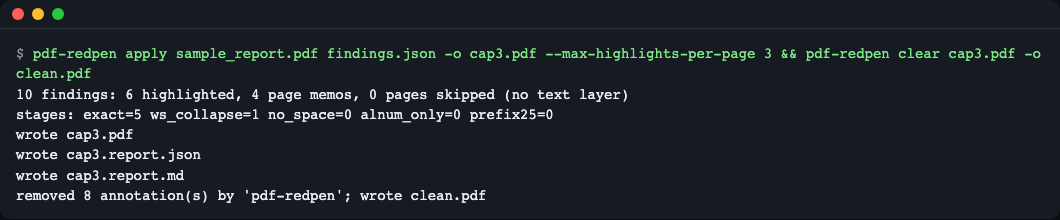
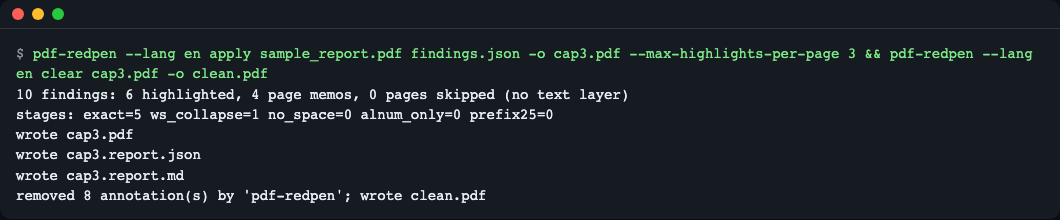
docs(readme): document screen language with per-language screenshots
Add a screen language section, language-specific screenshots, and
troubleshooting and limits notes for the new option.

Changed region(s): [[0.0934, 0.2182, 0.9962, 0.3], [0.0, 0.3, 0.2491, 0.3545]]

diff --git a/README.ko.md b/README.ko.md
@@ -34,21 +34,21 @@ uv tool install git+https://github.com/LeeGyeongPil/pdf-redpen
 pdf-redpen demo --out out
 ```
 
-![터미널 출력: 9 findings: 8 highlighted, 1 page memo, 1 page skipped](docs/images/02-demo-run.png)
-*`demo` 실행 화면. 3쪽은 글자 층이 없는 쪽이라 모델을 부르지 않고 건너뜁니다.*
+![터미널 출력(한국어 화면): 지적 9건: 강조 8개, 페이지 메모 1개, 1쪽 건너뜀](docs/images/02-demo-run.ko.png)
+*`demo` 실행 화면(한국어 화면. 언어를 분명히 하려고 스크린샷에는 `--lang ko`를 붙였습니다). 3쪽은 글자 층이 없는 쪽이라 모델을 부르지 않고 건너뜁니다.*
 
-> **연습용 목(mock) 모드입니다.** 모델 응답을 저장소에 들어 있는 녹화 파일(`src/pdf_redpen/data/recorded/`, **사람이 손으로 쓴 것이며 특정 모델의 실제 출력이 아닙니다**)로 대신합니다. 응답을 받은 뒤의 일(표 파싱·보강 병합·위치 찾기·주석 쓰기)은 실제 모드와 **같은 코드**입니다. 실제 모델은 더 많거나 적게, 다르게 지적합니다. 실제 모드는 모델 호출 때문에 훨씬 느릴 수 있습니다.
+> **연습용 목(mock) 모드입니다.** 모델 응답을 저장소에 들어 있는 녹음 파일(`src/pdf_redpen/data/recorded/`, **사람이 손으로 쓴 것이며 특정 모델의 실제 출력이 아닙니다**)로 대신합니다. 응답을 받은 뒤의 일(표 파싱·보강 병합·위치 찾기·주석 쓰기)은 실제 모드와 **같은 코드**입니다. 실제 모델은 더 많거나 적게, 다르게 지적합니다. 실제 모드는 모델 호출 때문에 훨씬 느릴 수 있습니다.
 
 읽는 법:
 
 | 출력 | 뜻 |
 |---|---|
-| `9 findings` | 모델(녹화)이 낸 지적 9건 |
-| `8 highlighted` | 8건은 PDF에서 위치를 찾아 형광펜을 그림 |
-| `1 page memo` | 1건은 본문에서 못 찾아 그 쪽 모서리 메모에 적음 |
-| `1 page skipped` | 글자 층이 없는 쪽(스캔·빈 쪽)은 건너뜀 |
-| `stages: exact=4 ...` | 지적을 어느 단계의 일치 방식으로 찾았는지의 집계 |
-| `recall pass: first 8, added 1, ...` | 1차 8건, "놓친 것만" 다시 물어 1건 추가, 중복 1건 제거 |
+| `지적 9건` | 모델(녹음)이 낸 지적 9건 |
+| `강조 8개` | 8건은 PDF에서 위치를 찾아 형광펜을 그림 |
+| `페이지 메모 1개` | 1건은 본문에서 못 찾아 그 쪽 모서리 메모에 적음 |
+| `1쪽 건너뜀(텍스트 층 없음)` | 글자 층이 없는 쪽(스캔·빈 쪽)은 건너뜀 |
+| `단계: exact=4 ...` | 지적을 어느 단계의 일치 방식으로 찾았는지의 집계 |
+| `재확인 패스: 첫 번째 8, 추가 1, ...` | 1차 8건, "놓친 것만" 다시 물어 1건 추가, 중복 1건 제거 |
 
 `out/reviewed.pdf`를 아무 PDF 뷰어로 열어 보세요. 찾은 지적은 형광펜(`/Highlight`)이 되고 설명은 형광펜의 메모(`/Contents`)에 들어 있어, 형광펜을 클릭하거나 올리면 보입니다. 못 찾은 지적은 쪽 모서리의 메모 아이콘 하나에 `[위치 못 찾음]`으로 모입니다.
 
@@ -56,16 +56,33 @@ pdf-redpen demo --out out
 
 | 명령 | 하는 일 | 예 |
 |---|---|---|
-| `demo` | 번들 샘플 3쪽을 녹화 응답으로 검토 | `pdf-redpen demo --out out` |
+| `demo` | 번들 샘플 3쪽을 녹음 응답으로 검토 | `pdf-redpen demo --out out` |
 | `review` | PDF를 모델로 검토해 주석 PDF·리포트 생성 | `pdf-redpen review a.pdf --recall-pass -o a.reviewed.pdf` |
 | `apply` | 모델 없이, 지적 JSON을 PDF에 달기 | `pdf-redpen apply a.pdf findings.json -o a.marked.pdf` |
 | `clear` | 이 도구가 단 주석만 제거 | `pdf-redpen clear a.marked.pdf -o a.clean.pdf` |
 
-`review` 옵션: `--instructions FILE`(검토 지침), `--mock DIR`(녹화 재생), `--record DIR`(응답 저장), `--recall-pass`(놓친 것 재질의), `--max-highlights-per-page N`(기본 20), `--pages 1-3,5`, `--author`, `--lang ko|en`(프롬프트 언어).
+`review` 옵션: `--instructions FILE`(검토 지침), `--mock DIR`(녹음 재생), `--record DIR`(응답 저장), `--recall-pass`(놓친 것 재질의), `--max-highlights-per-page N`(기본 20), `--pages 1-3,5`, `--author`, `--lang ko|en`(모델에 보내는 **프롬프트** 언어, 기본 `ko`. 화면 언어가 아닙니다. 아래 참고).
 종료 코드:
-- `0` 정상. 지적을 못 찾았어도 0이고(리포트로 알림), 일부 쪽만 실패하면 `warning: N page(s) failed ...`를 stderr에 내고 0입니다.
-- `1` 모델에 보낸 쪽이 **전부** 실패(`error: every page failed; ...`)했거나 예기치 못한 오류.
-- `2` 입력 오류(없는 파일, 잘못된 JSON, 범위 밖 `page`, 알 수 없는 `severity`, 모델 미설정 등).
+- `0` 정상. 지적을 못 찾았어도 0이고(리포트로 알림), 일부 쪽만 실패하면 `경고: N개 쪽이 실패했습니다. ...`(영어 화면에서는 `warning: N page(s) failed ...`)를 stderr에 내고 0입니다.
+- `1` 모델에 보낸 쪽이 **전부** 실패(`오류: 모든 쪽이 실패했습니다. ...`, 영어 화면에서는 `error: every page failed; ...`)했거나 예기치 못한 오류.
+- `2` 입력 오류(없는 파일, 잘못된 JSON, 범위 밖 `page`, 알 수 없는 `severity`, 모델 미설정 등) 또는 읽거나 쓸 수 없는 파일(`오류: <경로> 에 접근할 수 없습니다: ...`, 예: 읽기 전용 출력 폴더).
+
+### 화면 언어 (영어 / 한국어)
+터미널에 나오는 모든 것(도움말, 진행·요약 줄, 오류 메시지)과 Markdown 리포트를 영어 또는 한국어로 볼 수 있습니다. PDF 안에 쓰는 메모도 같은 언어를 따릅니다. 먼저 정해진 것이 이깁니다.
+
+| 우선순위 | 방법 | 예 |
+|---|---|---|
+| 1 | 전역 옵션, 명령 **앞**에 둠 | `pdf-redpen --lang ko demo --out out` |
+| 2 | 환경변수 | `PDF_REDPEN_LANG=ko pdf-redpen demo --out out` |
+| 3 | 로캘: `LC_ALL` → `LC_MESSAGES` → `LANG`(값이 `ko`로 시작하면 한국어) | `LANG=ko_KR.UTF-8 pdf-redpen demo --out out` |
+| 4 | 아무것도 없거나 그 밖의 값 | 영어 |
+
+![한국어 도움말 화면: 사용법, 명령 네 가지, --lang 옵션](docs/images/09-lang-help.ko.png)
+*`pdf-redpen --lang ko --help`(한국어 화면). `--lang en`이면 같은 화면이 영어로 나옵니다. argparse가 붙이는 제목(`usage:`, `positional arguments:`, `options:`)과 `-h`·`--version`의 설명 줄은 영어 그대로입니다.*
+
+- **명령 앞의 `--lang`은 화면 언어이고, `review` 뒤의 `review --lang ko|en`은 모델에 보내는 프롬프트 언어**입니다(기본값 `ko` 그대로). 서로 별개라서 `pdf-redpen --lang ko review a.pdf --lang en`은 화면은 한국어, 모델에는 영어로 묻습니다.
+- PDF 안의 메모는 한국어에서 `[위치 못 찾음]`, `[상한 초과]`, `(느슨 일치)`, 영어에서 `[not found]`, `[over cap]`, `(loose match)`입니다. 0.2.0 이전 버전은 항상 한국어 태그를 썼습니다.
+- `report.json`은 기계용이라 언어와 상관없이 항상 영어입니다. 상태·단계 코드(`highlighted`, `exact` 등)도 두 언어가 같습니다.
 
 ### 시나리오 1. 내 문서를 로컬 모델로 검토
 ```bash
@@ -74,20 +91,20 @@ export PDF_REDPEN_MODEL=<받아 둔 모델 이름>
 pdf-redpen review report.pdf --instructions review.md --recall-pass --record rec -o report.reviewed.pdf
 ```
 - 쪽마다 글자를 뽑아 모델에 보내고, 응답의 표에서 인용문을 골라 위치를 찾습니다.
-- `--record rec`를 붙이면 응답이 `rec/page{n}_turn{k}.md`에 저장되어, 나중에 `--mock rec`로 키·네트워크 없이 같은 결과를 다시 만들 수 있습니다(팀 공유·회귀 확인). 직접 녹화한 파일을 재생하면 리포트의 "연습용 목" 안내 문구가 그대로 붙지만, 내용은 사람이 쓴 것이 아니라 그 모델의 응답입니다. `--mock`과 `--record`는 한 번에 같이 쓸 수 없습니다(둘 다 주면 종료 코드 2).
+- `--record rec`를 붙이면 응답이 `rec/page{n}_turn{k}.md`에 저장되어, 나중에 `--mock rec`로 키·네트워크 없이 같은 결과를 다시 만들 수 있습니다(팀 공유·회귀 확인). 직접 녹음한 파일을 재생하면 리포트의 "연습용 목" 안내 문구가 그대로 붙지만, 내용은 사람이 쓴 것이 아니라 그 모델의 응답입니다. `--mock`과 `--record`는 한 번에 같이 쓸 수 없습니다(둘 다 주면 종료 코드 2).
 - 이 모드는 **페이지 글자를 지정한 엔드포인트로 보냅니다.** 민감한 문서는 로컬 모델을 쓰세요.
 
-엔드포인트가 안 떠 있거나 모델 이름이 틀리면 쪽마다 원인이 터미널에 함께 나옵니다. 보낸 쪽이 전부 실패하면 종료 코드 1입니다.
+엔드포인트가 안 떠 있거나 모델 이름이 틀리면 쪽마다 원인이 터미널에 함께 나옵니다. 보낸 쪽이 전부 실패하면 종료 코드 1입니다. (아래 예시는 `PDF_REDPEN_TIMEOUT=2`, `PDF_REDPEN_BASE_URL=http://127.0.0.1:9/v1` 로 만든 것이며 기본값이면 `현재 120초`로 나옵니다.)
 ```text
-  page 1: error - LLMError: Could not reach http://127.0.0.1:9/v1/chat/completions (<urlopen error [Errno 61] Connection refused>). Is the server running? Local models can be slow; raise PDF_REDPEN_TIMEOUT (now 2s).
+  1쪽: error - LLMError: http://127.0.0.1:9/v1/chat/completions 에 연결할 수 없습니다(<urlopen error [Errno 61] Connection refused>). 서버가 실행 중인가요? 로컬 모델은 느릴 수 있으니 PDF_REDPEN_TIMEOUT 을 늘려 보세요(현재 2초).
   ...
-error: every page failed; see the causes above (or the Pages table in the report). Nothing was reviewed.
+오류: 모든 쪽이 실패했습니다. 위의 원인(또는 보고서의 쪽 표)을 확인하세요. 검토된 것이 없습니다.
 ```
 
 모델을 지정하지 않으면 이렇게 멈춥니다(종료 코드 2).
 
-![모델 미설정 시 오류 메시지와 exit code 2](docs/images/07-no-model.png)
-*의도적으로 보여 주는 오류 화면. `PDF_REDPEN_MODEL`을 설정하거나 `demo`·`--mock`을 쓰라고 안내합니다.*
+![모델 미설정 시 오류 메시지와 exit code 2(한국어 화면)](docs/images/07-no-model.ko.png)
+*의도적으로 보여 주는 오류 화면(한국어 화면). `PDF_REDPEN_MODEL`을 설정하거나 `demo`·`--mock`을 쓰라고 안내합니다.*
 
 ### 시나리오 2. 다른 도구의 지적을 PDF에 달기 (`apply`)
 `findings.json`은 이런 배열입니다(전체 예: [`examples/findings.json`](examples/findings.json)).
@@ -101,10 +118,10 @@ error: every page failed; see the causes above (or the Pages table in the report
 
 `page`가 PDF 쪽 수를 넘으면 지적이 사라지지 않도록 **종료 코드 2로 멈추고 출력 PDF를 만들지 않습니다.**
 
-![범위 밖 page 오류: item 0: page 99 but the PDF has 3 page(s), exit code 2](docs/images/08-page-out-of-range.png)
-*의도적으로 보여 주는 오류 화면. 항목 번호(0부터)와 PDF의 쪽 수를 알려 줍니다.*
+![범위 밖 page 오류: 0번 항목: 99쪽이지만 PDF는 3쪽까지 있습니다, exit code 2(한국어 화면)](docs/images/08-page-out-of-range.ko.png)
+*의도적으로 보여 주는 오류 화면(한국어 화면). 항목 번호(0부터)와 PDF의 쪽 수를 알려 줍니다.*
 
-알 수 없는 `severity`는 `error: f.json: item 0: unknown severity 'urgnt'; use high, medium or low (or omit 'severity').`(종료 코드 2)로 거부됩니다.
+알 수 없는 `severity`는 `오류: f.json: 0번 항목: 알 수 없는 severity 'urgnt'. high, medium, low 중 하나를 쓰거나 'severity' 를 생략하세요.`(종료 코드 2)로 거부됩니다.
 
 ### 시나리오 3. 지적이 너무 많은 쪽, 그리고 지우고 다시 하기
 이 명령의 경로(`src/...`, `examples/findings.json`)는 저장소를 클론한 폴더에서 실행한다고 가정합니다. `pip`/`uv tool`로만 설치했다면 자기 PDF·JSON 경로로 바꿔 쓰세요.
@@ -114,37 +131,37 @@ pdf-redpen apply src/pdf_redpen/data/sample_report.pdf examples/findings.json -o
 pdf-redpen clear cap3.pdf -o clean.pdf
 ```
 
-![apply 결과 집계와 clear가 8개 주석을 지운 출력](docs/images/06-apply-clear.png)
+![apply 결과 집계와 clear가 8개 주석을 지운 출력(한국어 화면)](docs/images/06-apply-clear.ko.png)
 *한 쪽에 형광펜은 3개까지만 그리고, 나머지는 쪽 메모로 모읍니다. `clear`는 작성자가 `pdf-redpen`인 주석 8개(형광펜 6개 + 쪽마다 하나인 쪽 메모 2개)만 지웁니다.*
 
 ![상한 3 적용 후 1쪽: 형광펜 3개와 오른쪽 위 쪽 메모 아이콘](docs/images/05-cap3-page1.png)
-*상한을 넘은 지적은 오른쪽 위 노란 메모 아이콘 하나에 `[상한 초과]` 목록으로 모입니다.*
+*상한을 넘은 지적은 오른쪽 위 노란 메모 아이콘 하나에 `[상한 초과]` 목록으로 모입니다(영어 화면에서는 `[over cap]`).*
 
 `clear`는 `/T`(작성자)가 `pdf-redpen`인 주석만 지우므로, 사람이 단 주석은 남습니다. `review --author 이름`으로 작성자를 바꿔 달았다면 지울 때도 `pdf-redpen clear a.pdf -o b.pdf --author 이름`을 줘야 합니다. `apply`도 `review`처럼 출력 PDF 옆에 `<이름>.report.json`·`<이름>.report.md`를 만듭니다.
 
 ## 리포트 읽는 법
 `review`·`demo`는 출력 PDF 옆에 `<이름>.report.json`(기계용)과 `<이름>.report.md`(사람용)를 함께 만듭니다(예: `out/reviewed.report.md`). 터미널에 안 보이는 세부는 여기에 있습니다.
 
-![리포트의 지적 표: 지적마다 요청 쪽, 찾은 쪽, 일치 단계](docs/images/03-report-table.png)
-*`reviewed.report.md`의 Findings 표 일부(열 `#`, `asked page`, `found page`, `stage`, `quote`만 잘라 보임). 8번 지적은 2쪽이라 했지만 1쪽에서 찾았고, 9번은 `-`(못 찾음)이라 쪽 메모로 갔습니다.*
+![리포트의 지적 표(한국어): 지적마다 요청 쪽, 찾은 쪽, 일치 단계](docs/images/03-report-table.ko.png)
+*한국어 `reviewed.report.md`의 지적 사항 표 일부(열 `#`, `요청 쪽`, `찾은 쪽`, `단계`, `인용문`만 잘라 보임). 8번 지적은 2쪽이라 했지만 1쪽에서 찾았고, 9번은 `-`(못 찾음)이라 쪽 메모로 갔습니다.*
 
-**Findings 표 열**: `#` 번호 / `source`(`turn1`=1차 질의, `recall`=보강 질의, `apply`=JSON 입력) / `asked page`(모델이 말한 쪽) / `found page`(실제로 찾은 쪽) / `stage`(어느 일치 단계, 못 찾으면 `-`) / `status` / `severity` / `quote` / `comment`.
+**지적 사항 표 열**(영어 리포트의 `Findings` 표): `#` 번호 / `출처`(`turn1`=1차 질의, `recall`=보강 질의, `apply`=JSON 입력) / `요청 쪽`(모델이 말한 쪽) / `찾은 쪽`(실제로 찾은 쪽) / `단계`(어느 일치 단계, 못 찾으면 `-`) / `상태` / `심각도` / `인용문` / `코멘트`.
 
-| 지적 `status` | 뜻 | PDF에서 보이는 모습 |
+| 지적 `상태` | 뜻 | PDF에서 보이는 모습 |
 |---|---|---|
 | `highlighted` | 위치를 찾아 칠함 | 형광펜 + 메모 |
-| `memo_not_found` | 본문에서 못 찾음 | 쪽 모서리 메모에 `[위치 못 찾음]` 목록 |
-| `memo_overflow` | 쪽당 형광펜 상한(`--max-highlights-per-page`) 초과 | 쪽 모서리 메모에 `[상한 초과]` 목록 |
+| `memo_not_found` | 본문에서 못 찾음 | 쪽 모서리 메모에 `[위치 못 찾음]` 목록(영어 화면에서는 `[not found]`) |
+| `memo_overflow` | 쪽당 형광펜 상한(`--max-highlights-per-page`) 초과 | 쪽 모서리 메모에 `[상한 초과]` 목록(영어 화면에서는 `[over cap]`) |
 
-**Pages 표**: 쪽마다 `status`와 `first`(1차 지적 수)·`recall added`·`duplicates dropped`·`broken rows`, 그리고 `note`가 있습니다.
+**쪽 표**(영어 리포트의 `Pages` 표): 쪽마다 `상태`와 `첫 번째`(1차 지적 수)·`재확인 추가`·`중복 제외`·`깨진 행`, 그리고 `비고`가 있습니다.
 
-| 쪽 `status` | 뜻 |
+| 쪽 `상태` | 뜻 |
 |---|---|
 | `ok` | 모델을 불러 처리함 |
 | `skipped_no_text_layer` | 글자 층이 없어 모델을 부르지 않음(`note`에 이유) |
-| `error` | 그 쪽의 호출이 실패함. `note`에 원인(예: `Could not reach ...`)이 남고, 같은 원인이 터미널에도 나옵니다 |
+| `error` | 그 쪽의 호출이 실패함. `비고`에 원인(예: `Could not reach ...`, 한국어 화면에서는 한국어 문구)이 남고, 같은 원인이 터미널에도 나옵니다 |
 
-`note`에 `page text truncated before sending`이 있으면 그 쪽 글자가 한 쪽당 12000자에서 잘려 모델에 간 것이니, 뒷부분의 지적은 빠졌을 수 있습니다. 또 `stage`가 `prefix25`인 지적은 인용보다 길게 칠했을 수 있으니(아래 5단계 설명) 눈으로 확인하세요.
+`비고`에 `page text truncated before sending`(한국어 화면에서는 한국어 문구)이 있으면 그 쪽 글자가 한 쪽당 12000자에서 잘려 모델에 간 것이니, 뒷부분의 지적은 빠졌을 수 있습니다. 또 `stage`가 `prefix25`인 지적은 인용보다 길게 칠했을 수 있으니(아래 5단계 설명) 눈으로 확인하세요.
 
 ## 설정
 환경변수(실제 `review`에서만 필요. `demo`·`apply`·`clear`·`review --mock`은 필요 없음). 예시는 [`.env.example`](.env.example).
@@ -153,8 +170,9 @@ pdf-redpen clear cap3.pdf -o clean.pdf
 |---|---|---|
 | `PDF_REDPEN_BASE_URL` | `http://localhost:11434/v1` | OpenAI 호환 `chat/completions` 엔드포인트의 앞부분 |
 | `PDF_REDPEN_MODEL` | (없음, 필수) | 모델 이름 |
-| `PDF_REDPEN_API_KEY` | (없음) | 있으면 `Authorization: Bearer` 로 보냄. 코드·리포트·녹화 파일에는 기록하지 않음 |
+| `PDF_REDPEN_API_KEY` | (없음) | 있으면 `Authorization: Bearer` 로 보냄. 코드·리포트·녹음 파일에는 기록하지 않음 |
 | `PDF_REDPEN_TIMEOUT` | `120` | 응답 대기 초 |
+| `PDF_REDPEN_LANG` | (없음) | 화면 언어 `en` 또는 `ko`. 전역 `--lang` 옵션이 이보다 우선합니다. `demo`·`apply` 등 모든 명령에 적용 |
 
 ## 동작 원리
 핵심은 두 가지, **위치 찾기(grounding)** 와 **보강 질의(recall pass)** 입니다.
@@ -196,10 +214,10 @@ flowchart LR
 표 열의 뜻은 위의 "리포트 읽는 법"을 보세요.
 
 ### 재현율 보강 턴(recall pass)이 왜 필요한가
-**재현율(recall)** 은 "실제로 있는 문제 중 모델이 찾아낸 비율"입니다. 같은 문서를 같은 모델에 두 번 시키면 지적 수가 달라질 만큼, 한 번의 질의로는 재현율이 낮을 수 있습니다. **재현율 보강 턴**은 이를 높이려고, 같은 대화에 1차 답을 모델(assistant) 메시지로 남긴 채 사용자 메시지에 1차 지적 목록을 다시 보여 주며 **놓친 것만** 추가로 묻는 한 번 더의 질의입니다(구현: `prompts.recall_turn`). 리포트에는 1차 건수와 추가·중복 제거 건수가 따로 적힙니다. 이 기법이 지적 수를 **보장하지는 않으며**, 데모의 `added 1` 같은 수치는 손으로 쓴 녹화값입니다. 아래는 데모가 실제로 보낸 보강 프롬프트입니다.
+**재현율(recall)** 은 "실제로 있는 문제 중 모델이 찾아낸 비율"입니다. 같은 문서를 같은 모델에 두 번 시키면 지적 수가 달라질 만큼, 한 번의 질의로는 재현율이 낮을 수 있습니다. **재현율 보강 턴**은 이를 높이려고, 같은 대화에 1차 답을 모델(assistant) 메시지로 남긴 채 사용자 메시지에 1차 지적 목록을 다시 보여 주며 **놓친 것만** 추가로 묻는 한 번 더의 질의입니다(구현: `prompts.recall_turn`). 리포트에는 1차 건수와 추가·중복 제거 건수가 따로 적힙니다. 이 기법이 지적 수를 **보장하지는 않으며**, 데모의 `added 1` 같은 수치는 손으로 쓴 녹음값입니다. 아래는 데모가 실제로 보낸 보강 프롬프트입니다.
 
-![리포트에 기록된 보강 프롬프트와 recall pass 집계](docs/images/04-recall-prompt.png)
-*"방금 지적한 목록은 다음과 같습니다 … 놓친 것만(missed only) 추가하세요." 프롬프트와 `recall pass: first 8, added 1, duplicates dropped 1`.*
+![리포트에 기록된 보강 프롬프트와 재확인 패스 집계](docs/images/04-recall-prompt.ko.png)
+*"방금 지적한 목록은 다음과 같습니다 … 놓친 것만(missed only) 추가하세요." 프롬프트와 `재확인 패스: 첫 번째 8, 추가 1, 중복 제외 1`(한국어 화면).*
 
 ### 코드 둘러보기
 - [`src/pdf_redpen/grounding.py`](src/pdf_redpen/grounding.py): 5단계 위치 찾기(`ground`)와 이웃 쪽 탐색(`ground_finding`).
@@ -224,7 +242,7 @@ for p in report.placements:
 
 | 공개 이름 | 설명 |
 |---|---|
-| `annotate_pdf(src, findings, dst, *, max_per_page=20, author=...)` | 지적 목록을 PDF에 달아 `dst`에 저장하고 `Report` 반환 |
+| `annotate_pdf(src, findings, dst, *, max_per_page=20, author=..., lang=None)` | 지적 목록을 PDF에 달아 `dst`에 저장하고 `Report` 반환. `lang`(`"en"`·`"ko"`)은 PDF 안 메모의 언어이며, 기본은 영어입니다(`pdf_redpen.i18n.set_lang("ko")`를 부르면 한국어. CLI가 대신 불러 줍니다) |
 | `Finding(page, quote, comment, severity=None)` | 지적 한 건 |
 | `Report` | `placements`(지적별 `status`·`stage`), `pages` 등 집계 |
 | `ground(page, quote, used)` | 저수준 함수: 내부 `PageText`가 필요해 보통은 `annotate_pdf`만 씁니다 |
@@ -235,6 +253,7 @@ for p in report.placements:
 - 2단 레이아웃은 글자 읽는 순서가 섞일 수 있어 여러 줄 인용이 안 잡힐 수 있습니다.
 - 뷰어마다 형광펜·메모 모양이 조금 다를 수 있습니다.
 - 실제 모드는 모델 속도에 좌우되고, 쪽 글자가 엔드포인트로 전송됩니다.
+- 화면 언어의 알려진 한계: 화면 언어 옵션은 명령 앞에만 둘 수 있고(`pdf-redpen --lang ko demo`), argparse가 붙이는 제목과 `-h`·`--version` 설명 줄은 영어로 남으며, 라이브러리의 기본 PDF 메모는 `lang=`을 주지 않으면 영어입니다.
 
 ## 언제 쓰나
 - 독립 PDF 파일에 LLM이나 다른 도구가 내놓은 지적을 원문 위치 주석으로 달고 싶다면 이 도구가 맞습니다. 위치를 못 찾은 지적은 쪽 메모로 남깁니다.
@@ -245,7 +264,10 @@ for p in report.placements:
 ## 자주 겪는 문제
 | 증상 | 원인 | 해결 |
 |---|---|---|
-| `error: No model configured ...` (종료 코드 2) | 실제 `review`인데 모델 미설정 | `PDF_REDPEN_MODEL` 설정, 또는 `demo`/`--mock DIR` 사용 |
+| `오류: 실제 검토에 쓸 모델이 설정되지 않았습니다. ...` (영어 화면에서는 `error: No model configured ...`, 종료 코드 2) | 실제 `review`인데 모델 미설정 | `PDF_REDPEN_MODEL` 설정, 또는 `demo`/`--mock DIR` 사용 |
+| `오류: <경로> 에 접근할 수 없습니다: ...` (종료 코드 2) | 출력 폴더가 읽기 전용이거나 없거나 가득 참 | 다른 `-o` 경로를 고르고 권한을 확인 |
+| 화면이 원하는 언어가 아님 | 로캘이나 `PDF_REDPEN_LANG`이 정함 | 명령 앞에 `--lang en` 또는 `--lang ko` |
+| `unrecognized arguments: --lang ko` (종료 코드 2) | 화면 언어 옵션을 명령 뒤에 둠 | 명령 앞에 둡니다: `pdf-redpen --lang ko demo` |
 | 쪽이 `skipped_no_text_layer`로 표시됨 | 스캔·빈 쪽·글자 매핑 깨짐 | 글자 층이 있는 PDF 사용(OCR은 지원 안 함) |
 | 지적이 `memo_not_found`가 됨 | 모델이 본문에 없는 문장을 만들어 냄 | 쪽 모서리 메모를 확인. 필요하면 `--recall-pass`나 지침 보강 |
 | 칠한 범위가 인용보다 길다 | `prefix25` 단계로 찾음 | 리포트에서 단계 확인 후 눈으로 점검 |

diff --git a/README.md b/README.md
@@ -35,7 +35,7 @@ pdf-redpen demo --out out
 ```
 
 ![Terminal output: 9 findings: 8 highlighted, 1 page memo, 1 page skipped](docs/images/02-demo-run.png)
-*The `demo` run screen. Page 3 has no text layer, so the model is not called and the page is skipped.*
+*The `demo` run screen (English; the screenshot adds `--lang en` to make the language explicit). Page 3 has no text layer, so the model is not called and the page is skipped. The quoted sentences in the sample report are Korean, so they stay Korean in every screen.*
 
 > **This is a practice mock mode.** The model's responses are replaced by recorded files bundled in the repository (`src/pdf_redpen/data/recorded/`, **written by hand by a person and not the real output of any particular model**). What happens after a response arrives (table parsing, recall merge, locating, writing annotations) is **the same code** as in the real mode. A real model will flag more or fewer items, and different ones. The real mode can be much slower because of the model calls.
 
@@ -50,7 +50,7 @@ How to read it:
 | `stages: exact=4 ...` | A tally of which stage's matching method found each finding |
 | `recall pass: first 8, added 1, ...` | 8 in the first pass, 1 added by asking again for "only what was missed", 1 duplicate removed |
 
-Open `out/reviewed.pdf` in any PDF viewer. A finding that was located becomes a highlight (`/Highlight`) and its explanation is in the highlight's note (`/Contents`), visible when you click or hover over the highlight. Findings that were not located are gathered under `[위치 못 찾음]` ("location not found") in a single note icon at the page corner.
+Open `out/reviewed.pdf` in any PDF viewer. A finding that was located becomes a highlight (`/Highlight`) and its explanation is in the highlight's note (`/Contents`), visible when you click or hover over the highlight. Findings that were not located are gathered under `[not found]` in a single note icon at the page corner.
 
 ## Usage
 
@@ -61,34 +61,52 @@ Open `out/reviewed.pdf` in any PDF viewer. A finding that was located becomes a 
 | `apply` | Attaches a findings JSON to a PDF, without a model | `pdf-redpen apply a.pdf findings.json -o a.marked.pdf` |
 | `clear` | Removes only the annotations this tool added | `pdf-redpen clear a.marked.pdf -o a.clean.pdf` |
 
-`review` options: `--instructions FILE` (review guidelines), `--mock DIR` (replay recordings), `--record DIR` (save responses), `--recall-pass` (ask again for what was missed), `--max-highlights-per-page N` (default 20), `--pages 1-3,5`, `--author`, `--lang ko|en` (prompt language).
+`review` options: `--instructions FILE` (review guidelines), `--mock DIR` (replay recordings), `--record DIR` (save responses), `--recall-pass` (ask again for what was missed), `--max-highlights-per-page N` (default 20), `--pages 1-3,5`, `--author`, `--lang ko|en` (the **prompt** language sent to the model, default `ko`; not the screen language, see below).
 Exit codes:
 - `0` Normal. It is 0 even if no findings were located (reported in the report), and if only some pages fail it prints `warning: N page(s) failed ...` to stderr and is still 0.
 - `1` **All** pages sent to the model failed (`error: every page failed; ...`), or an unexpected error.
-- `2` Input error (nonexistent file, bad JSON, out-of-range `page`, unknown `severity`, no model configured, etc.).
+- `2` Input error (nonexistent file, bad JSON, out-of-range `page`, unknown `severity`, no model configured, etc.) or a file you cannot read or write (`error: cannot access <path>: <reason>`, for example a read-only output folder).
+
+### Screen language (English / Korean)
+Everything you read in the terminal (help, progress and summary lines, error messages) and the Markdown report can be shown in English or Korean. The notes written into the PDF follow the same language. The first one that is set wins:
+
+| Priority | How | Example |
+|---|---|---|
+| 1 | Global option, placed **before** the command | `pdf-redpen --lang ko demo --out out` |
+| 2 | Environment variable | `PDF_REDPEN_LANG=ko pdf-redpen demo --out out` |
+| 3 | Locale: `LC_ALL`, then `LC_MESSAGES`, then `LANG` (a value starting with `ko` means Korean) | `LANG=ko_KR.UTF-8 pdf-redpen demo --out out` |
+| 4 | Nothing set, or any other value | English |
+
+![The help screen in English: usage, the four commands and the --lang option](docs/images/09-lang-help.png)
+*`pdf-redpen --lang en --help`. With `--lang ko` the same screen is shown in Korean. argparse's own headings (`usage:`, `positional arguments:`, `options:`) and the description lines of `-h` and `--version` stay English.*
+
+- **`--lang` before the command is the screen language. `review --lang ko|en` after `review` is the prompt language** that is sent to the model (and it keeps its default `ko`). They are separate: `pdf-redpen --lang en review a.pdf --lang ko` shows English messages but asks the model in Korean.
+- The notes inside the PDF are `[not found]`, `[over cap]` and `(loose match)` in English, and `[위치 못 찾음]`, `[상한 초과]` and `(느슨 일치)` in Korean. Versions before 0.2.0 always wrote the Korean ones.
+- `report.json` is for machines and is always English, whatever the language. Status and stage codes (`highlighted`, `exact`, ...) are the same in both languages.
 
 ### Scenario 1. Review your own document with a local model
 ```bash
 export PDF_REDPEN_BASE_URL=http://localhost:11434/v1   # OpenAI-compatible endpoint (e.g. Ollama)
-export PDF_REDPEN_MODEL=<받아 둔 모델 이름>
+export PDF_REDPEN_MODEL=<your-model-name>
 pdf-redpen review report.pdf --instructions review.md --recall-pass --record rec -o report.reviewed.pdf
 ```
-(`<받아 둔 모델 이름>` is a placeholder for "the name of the model you have pulled".)
+(`<your-model-name>` is a placeholder for the name of the model you have pulled.)
 - It extracts the text of each page and sends it to the model, then picks the quotations from the response table and locates them.
 - With `--record rec`, the responses are saved to `rec/page{n}_turn{k}.md`, so later you can reproduce the same result with `--mock rec` without a key or network (for sharing with a team or regression checks). When you replay files you recorded yourself, the report still carries the "practice mock" notice, but the content is that model's response, not something a person wrote. `--mock` and `--record` cannot be used together (giving both is exit code 2).
 - This mode **sends the page text to the endpoint you specify.** For sensitive documents, use a local model.
 
-If the endpoint is not up or the model name is wrong, the cause is shown per page in the terminal. If all the pages sent fail, the exit code is 1.
+If the endpoint is not up or the model name is wrong, the cause is shown per page in the terminal. If all the pages sent fail, the exit code is 1. (The example below was produced with `PDF_REDPEN_TIMEOUT=2` and `PDF_REDPEN_BASE_URL=http://127.0.0.1:9/v1`; with the default you would see `now 120s`.)
 ```text
   page 1: error - LLMError: Could not reach http://127.0.0.1:9/v1/chat/completions (<urlopen error [Errno 61] Connection refused>). Is the server running? Local models can be slow; raise PDF_REDPEN_TIMEOUT (now 2s).
   ...
 error: every page failed; see the causes above (or the Pages table in the report). Nothing was reviewed.
 ```
+(With `--lang ko` the same lines appear in Korean.)
 
 If you do not specify a model, it stops like this (exit code 2).
 
 ![Error message and exit code 2 when no model is configured](docs/images/07-no-model.png)
-*An error screen shown on purpose. It tells you to set `PDF_REDPEN_MODEL` or use `demo` or `--mock`.*
+*An error screen shown on purpose (English). It tells you to set `PDF_REDPEN_MODEL` or use `demo` or `--mock`.*
 
 ### Scenario 2. Attach another tool's findings to a PDF (`apply`)
 `findings.json` is an array like this (full example: [`examples/findings.json`](examples/findings.json)).
@@ -105,7 +123,7 @@ If you do not specify a model, it stops like this (exit code 2).
 If `page` exceeds the PDF's page count, **it stops with exit code 2 and does not create the output PDF**, so no finding disappears.
 
 ![Out-of-range page error: item 0: page 99 but the PDF has 3 page(s), exit code 2](docs/images/08-page-out-of-range.png)
-*An error screen shown on purpose. It tells you the item number (from 0) and the PDF's page count.*
+*An error screen shown on purpose (English). It tells you the item number (from 0) and the PDF's page count.*
 
 An unknown `severity` is rejected with `error: f.json: item 0: unknown severity 'urgnt'; use high, medium or low (or omit 'severity').` (exit code 2).
 
@@ -121,7 +139,7 @@ pdf-redpen clear cap3.pdf -o clean.pdf
 *Only up to 3 highlights are drawn on a page, and the rest are gathered into the page memo. `clear` removes only the 8 annotations whose author is `pdf-redpen` (6 highlights + 2 page memos, one per page).*
 
 ![Page 1 after applying a cap of 3: 3 highlights and a page memo icon at the top right](docs/images/05-cap3-page1.png)
-*Findings beyond the cap are gathered into a single yellow note icon at the top right as a `[상한 초과]` ("cap exceeded") list.*
+*Findings beyond the cap are gathered into a single yellow note icon at the top right as a `[over cap]` list.*
 
 `clear` removes only annotations whose `/T` (author) is `pdf-redpen`, so annotations added by people stay. If you attached them with a different author through `review --author name`, you must also give `pdf-redpen clear a.pdf -o b.pdf --author name` when clearing. Like `review`, `apply` also creates `<name>.report.json` and `<name>.report.md` next to the output PDF.
 
@@ -129,15 +147,15 @@ pdf-redpen clear cap3.pdf -o clean.pdf
 `review` and `demo` create `<name>.report.json` (for machines) and `<name>.report.md` (for people) next to the output PDF (for example `out/reviewed.report.md`). Details not visible in the terminal are here.
 
 ![The report's findings table: per finding, the asked page, the found page and the match stage](docs/images/03-report-table.png)
-*Part of the Findings table of `reviewed.report.md` (only the columns `#`, `asked page`, `found page`, `stage` and `quote` are shown, cropped). Finding 8 was said to be on page 2 but was found on page 1, and 9 is `-` (not found), so it went to the page memo.*
+*Part of the Findings table of the English `reviewed.report.md` (only the columns `#`, `asked page`, `found page`, `stage` and `quote` are shown, cropped). Finding 8 was said to be on page 2 but was found on page 1, and 9 is `-` (not found), so it went to the page memo.*
 
 **Findings table columns**: `#` number / `source` (`turn1` = first query, `recall` = recall query, `apply` = JSON input) / `asked page` (the page the model said) / `found page` (the page actually found) / `stage` (which match stage, `-` if not found) / `status` / `severity` / `quote` / `comment`.
 
 | Finding `status` | Meaning | What you see in the PDF |
 |---|---|---|
 | `highlighted` | Located and painted | Highlight + note |
-| `memo_not_found` | Not found in the body | `[위치 못 찾음]` ("location not found") list in the page corner note |
-| `memo_overflow` | Exceeded the per-page highlight cap (`--max-highlights-per-page`) | `[상한 초과]` ("cap exceeded") list in the page corner note |
+| `memo_not_found` | Not found in the body | `[not found]` list in the page corner note |
+| `memo_overflow` | Exceeded the per-page highlight cap (`--max-highlights-per-page`) | `[over cap]` list in the page corner note |
 
 **Pages table**: for each page, `status`, plus `first` (number of first-pass findings), `recall added`, `duplicates dropped`, `broken rows`, and `note`.
 
@@ -158,6 +176,7 @@ Environment variables (needed only for the real `review`; not needed for `demo`,
 | `PDF_REDPEN_MODEL` | (none, required) | Model name |
 | `PDF_REDPEN_API_KEY` | (none) | If set, sent as `Authorization: Bearer`. Not recorded in code, reports or recording files |
 | `PDF_REDPEN_TIMEOUT` | `120` | Seconds to wait for a response |
+| `PDF_REDPEN_LANG` | (none) | Screen language `en` or `ko`; the global `--lang` option wins over it. Works for every command, including `demo` and `apply` |
 
 ## How it works
 There are two key parts: **locating (grounding)** and the **recall pass**.
@@ -202,7 +221,7 @@ For what the table columns mean, see "Reading the report" above.
 **Recall** is "the share of the problems that actually exist that the model found". The recall of a single query can be low, to the point that asking the same model about the same document twice gives different numbers of findings. The **recall pass** is a further query to raise it: it keeps the first answer in the same conversation as an assistant message, shows the first-pass finding list again in the user message, and asks for **only what was missed** (implementation: `prompts.recall_turn`). The report lists the first-pass count and the added and de-duplicated counts separately. This technique **does not guarantee** a number of findings, and figures such as `added 1` in the demo are hand-written recorded values. Below is the recall prompt the demo actually sent.
 
 ![The recall prompt recorded in the report and the recall pass tally](docs/images/04-recall-prompt.png)
-*The prompt "the list I just flagged is as follows … add only what was missed (missed only)." and `recall pass: first 8, added 1, duplicates dropped 1`.*
+*The prompt "the list I just flagged is as follows … add only what was missed (missed only)." and `recall pass: first 8, added 1, duplicates dropped 1`. The prompt body is in Korean because the prompt language (`review --lang`, which `demo` uses) defaults to `ko` and is separate from the screen language; the screen language only changes the surrounding lines. The awk pattern in the command matches both languages' headings.*
 
 ### A tour of the code
 - [`src/pdf_redpen/grounding.py`](src/pdf_redpen/grounding.py): 5-stage locating (`ground`) and neighboring-page search (`ground_finding`).
@@ -227,7 +246,7 @@ for p in report.placements:
 
 | Public name | Description |
 |---|---|
-| `annotate_pdf(src, findings, dst, *, max_per_page=20, author=...)` | Attaches a list of findings to a PDF, saves it to `dst` and returns a `Report` |
+| `annotate_pdf(src, findings, dst, *, max_per_page=20, author=..., lang=None)` | Attaches a list of findings to a PDF, saves it to `dst` and returns a `Report`. `lang` (`"en"` or `"ko"`) sets the language of the notes in the PDF; the default is English unless `pdf_redpen.i18n.set_lang("ko")` was called (the CLI does this for you) |
 | `Finding(page, quote, comment, severity=None)` | One finding |
 | `Report` | Tallies such as `placements` (`status` and `stage` per finding) and `pages` |
 | `ground(page, quote, used)` | Low-level function: it needs an internal `PageText`, so you normally use only `annotate_pdf` |
@@ -238,6 +257,7 @@ for p in report.placements:
 - In two-column layouts the character reading order can get mixed up, so multi-line quotations may not be found.
 - The look of highlights and notes can differ slightly between viewers.
 - The real mode depends on the model's speed, and the page text is sent to the endpoint.
+- Known limits of the screen language: the screen language option goes before the command (`pdf-redpen --lang ko demo`), the headings and `-h`/`--version` description lines that argparse adds stay English, and the library's default PDF notes are English unless you pass `lang=`. The Korean screen calls the recorded responses "녹음" files (the practice-mode files), which is a wording quirk, not audio.
 
 ## When to use it
 - This tool fits if you want to attach findings from an LLM or another tool to a standalone PDF file as annotations at the original's positions. Findings whose position could not be found are left as a page memo.
@@ -249,6 +269,9 @@ for p in report.placements:
 | Symptom | Cause | Fix |
 |---|---|---|
 | `error: No model configured ...` (exit code 2) | A real `review` without a model configured | Set `PDF_REDPEN_MODEL`, or use `demo` / `--mock DIR` |
+| `error: cannot access <path>: ...` (exit code 2) | The output folder is read-only, does not exist or is full | Choose another `-o` path and check the permissions |
+| The screen is in the wrong language | The locale or `PDF_REDPEN_LANG` decides it | Pass `--lang en` or `--lang ko` before the command |
+| `unrecognized arguments: --lang en` (exit code 2) | The screen language option was placed after the command | Put it before the command: `pdf-redpen --lang ko demo` |
 | A page is shown as `skipped_no_text_layer` | A scan, a blank page, or broken character mapping | Use a PDF with a text layer (OCR is not supported) |
 | A finding becomes `memo_not_found` | The model made up a sentence that is not in the body | Check the page corner note. If needed, use `--recall-pass` or strengthen the instructions |
 | The painted range is longer than the quotation | It was found at the `prefix25` stage | Check the stage in the report and inspect by eye |
